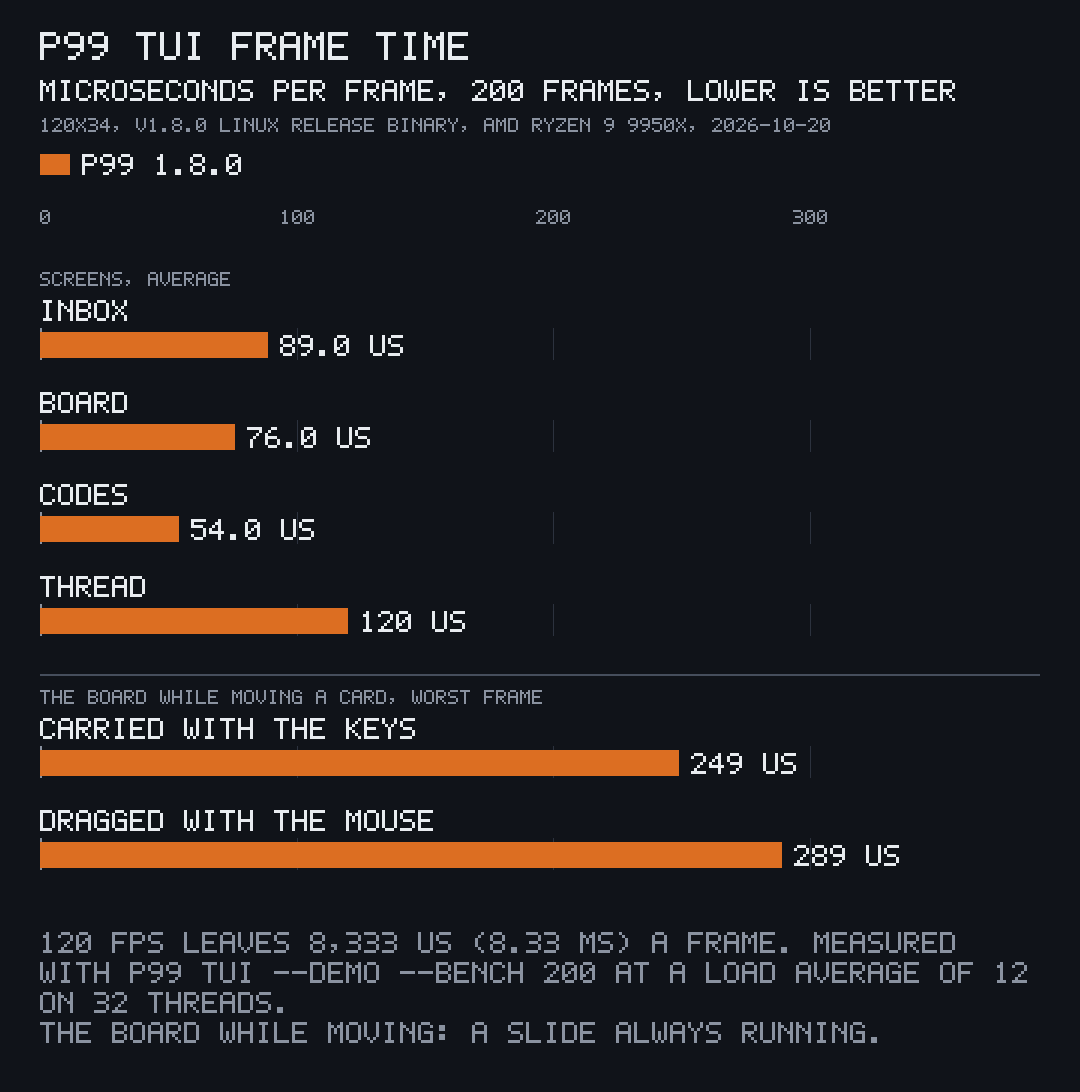
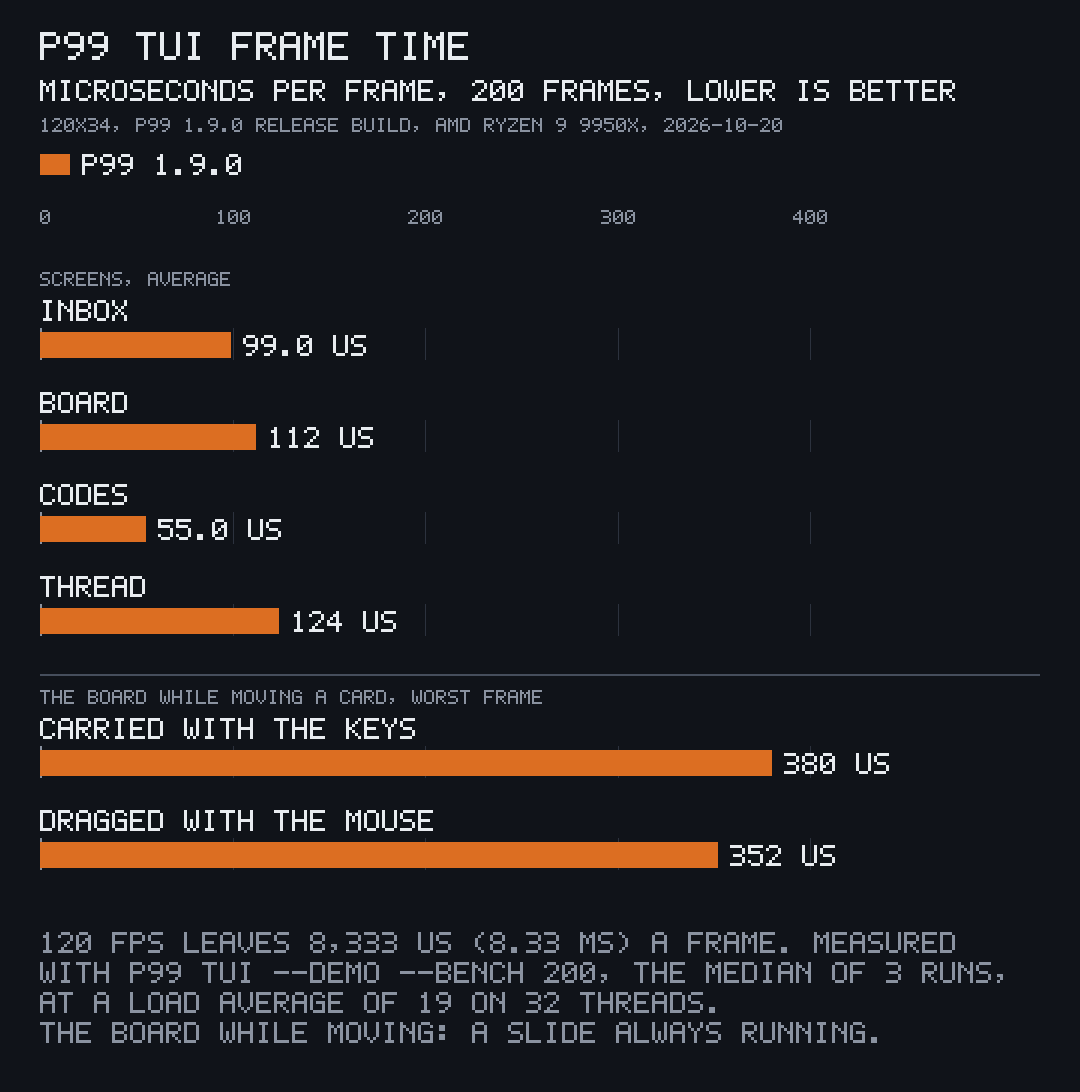
The README's numbers show 1.9.0 as measured on 2026-10-20 against the code before its polish: the panel's warm open, the P99 page's first paint on a mid-range phone, the web board's frames while dragging, the Worker per route beside 1.8.0, and the charts

diff --git a/README.md b/README.md
@@ -16,29 +16,33 @@ P99: got questions or doubts? [Ping me on Discord](https://discord.gg/XsNcn3kYzn
 
 | | |
 | --- | --- |
-| What every page downloads | **2,044 bytes** gzipped: the loader as served, nothing else |
-| Loader start to the "+" painted | **11.8 ms** cold, **4.5 ms** warm |
-| Page navigation to the "+" painted | **44.5 ms** cold, **16.9 ms** warm |
-| Click to the panel's form on screen | **55.8 ms** cold: panel and styles load only then (24.8 KB gzipped), and the capture code right after the form shows |
-| A manager's click on "Board" to the board with its cards | **193 ms** cold: the board's code loads only then (9.9 KB gzipped), with the board from the Worker |
-| Worker, p50 and p99 per request | **11.6 / 19.9 ms** the loader, **17.8 / 29.6 ms** an item with its thread, **19.5 / 33.0 ms** a board, **25.6 / 42.1 ms** a list of 50, **37.6 / 82.3 ms** a new item, **53.4 / 95.4 ms** a move, on a local `wrangler dev`, not Cloudflare's edge |
+| What every page downloads | **2,007 bytes** gzipped: the loader as served, nothing else |
+| Loader start to the "+" painted | **8.9 ms** cold, **3.4 ms** warm |
+| Page navigation to the "+" painted | **42.6 ms** cold, **13.8 ms** warm |
+| Click to the panel's form on screen | **59.0 ms** cold: panel and styles load only then (29.1 KB gzipped), and the capture code right after the form shows; **25.5 ms** warm |
+| A manager's click on "Board" to the board with its cards | **294 ms** cold, 270 cards on it: the board's code loads only then (11.0 KB gzipped), with the board from the Worker |
+| The web board while a card is dragged | **1.6 ms** a frame at the median, **4.8 ms** at p95, **9.1 ms** at p99 (input, scripts, style and layout): 120 fps leaves 8.33 ms |
+| The P99 page's first paint on a mid-range phone | **226 ms** cold signed out, **216 ms** signed in (150 ms round trips, 1.6 Mbps, a 4x slower CPU); 406 and 392 ms before its critical style was inlined |
+| Worker, p50 and p99 per request | **18.5 / 38.2 ms** the loader, **29.3 / 49.9 ms** an item with its thread, **28.7 / 51.7 ms** a board, **39.7 / 72.3 ms** a list of 50, **60.0 / 92.5 ms** a new item, **60.9 / 104 ms** a move, on a local `wrangler dev`, not Cloudflare's edge |
 | CLI start-up | **0.7 ms** `p99 --version`, **0.9 ms** `p99 --demo list` |
-| TUI start to its first frame at 120×34 | **1.6 ms** |
-| TUI frame time at 120×34 | **0.05 to 0.12 ms** average; the board's worst frame while a card is dragged and slides **0.29 ms**: 120 fps leaves 8.33 ms |
+| TUI start to its first frame at 120×34 | **1.7 ms** |
+| TUI frame time at 120×34 | **0.06 to 0.12 ms** average; the board's worst frame while a card is dragged and slides **0.35 ms**: 120 fps leaves 8.33 ms |
 | Backend | **0** servers: one Cloudflare Worker, D1 and R2 per account |
 | Worker runtime dependencies | **0** (wrangler only to run its tests) |
-| p99 binary | **6.9 MB** (3.1 MB as the Linux release download), 14 direct crates, the Worker and widget embedded |
+| p99 binary | **7.1 MB** (3.2 MB gzipped), 14 direct crates, the Worker and widget embedded |
 
-Measured on 2026-10-20 for 1.8.0 on an AMD Ryzen 9 9950X (32 threads), with the load average of the machine's other work noted for each:
+Measured on 2026-10-20 for 1.9.0 on an AMD Ryzen 9 9950X (32 threads), each against the code before 1.9.0's polish, alternated run by run, with the load average of the machine's other work noted for each:
 
 - Sizes with `gzip -9`: the loader as a host with no placement settings gets it (`bin/budget`), the panel, styles, capture and board code as the Worker serves them.
-- Browser times in headless Chromium 154 on localhost against a local Worker, each the median of 5 runs of 10 page loads, at a load average of 26 to 30, where "painted" is the first animation frame with the button (so times snap to 16.7 ms frames). Cold is a fresh browser context, warm a reload in it. Alternated run by run with 1.7.0 at a load average of 50 to 92, the two were the same within the noise (loader start to the button 9.3 and 9.0 ms cold, click to the form 132 and 144 ms). The board time is from the pointer going down on "Board" to the board on screen with its cards, in a fresh context each time, against the Worker on a local `wrangler dev` with 3 boards and 22 items, the median of 5 runs of 10 at a load average of 11 to 13.
-- Worker times on `wrangler dev` (workerd and local D1 on this machine, not Cloudflare's edge), one request at a time over a kept-alive connection, 400 of each after 30 to warm up, signed as the CLI signs them, on 360 items with 120 comments on 2 hosts and 5 boards, at a load average of 12 to 17.
-- CLI and TUI start-up: the whole process, the median of 300 runs after 20 to warm up (`p99 tui --demo --dump 120x34` for the first frame); TUI frame times with `p99 tui --demo --bench 200`; both on the v1.8.0 Linux release binary, at a load average of 12. A first set at a load average of 49 to 52 ran slower (up to 1.2 ms a frame on average, the worst 10.5 ms), from the machine's other work.
+- Browser times in headless Chromium 154 on localhost against a local Worker on `wrangler dev` with 360 items on 2 hosts, each the median of 5 runs of 10 page loads at a load average of 19 to 30, where "painted" is the first animation frame with the button (so times snap to 16.7 ms frames). Cold is a fresh browser context, warm a reload in it. Before the polish the same runs gave 7.5 and 3.0 ms from loader start to the button, 52.3 and 26.0 ms from click to the form, and 309 ms to the board: the same within the noise. The board time is from the pointer going down on "Board" to the board on screen with its cards.
+- The web board's frames: a mouse drag across the four columns and back, 90 moves 16 ms apart, 8 drags of about 190 frames, at a load average of 16 to 24; each frame from its first input event to the end of style and layout, which leaves out the paint and compositing of headless Chromium's software renderer. Before the polish: 1.5, 5.0 and 10.4 ms. About 1.5% of frames on both pass 8.33 ms on this machine, with 70 cards in a column.
+- The P99 page: a fresh browser context each time at 412×823, throttled through the DevTools protocol as Lighthouse's mobile profile is, 50 loads each, first paint as Chromium reports it.
+- Worker times on `wrangler dev` (workerd and local D1 on this machine, not Cloudflare's edge), one request at a time over a kept-alive connection, 400 of each after 30 to warm up, signed as the CLI signs them, on 360 items with 120 comments on 2 hosts, at a load average of 8 to 16. The code before the polish answered within 1.6 ms of these at p50 (within 0.2 ms on every route but a new item). 1.8.0 measured 11.6 / 19.9 ms for the loader up to 53.4 / 95.4 ms for a move; the same code before the polish measured 12.3 ms then 20.3 ms for the loader in single runs the same afternoon, so the gap is the machine's other work, not the code.
+- CLI and TUI start-up: the whole process, the median of 300 runs after 20 to warm up (`p99 tui --demo --dump 120x34` for the first frame); TUI frame times with `p99 tui --demo --bench 200`, the median of 3 runs; both on a release build, at a load average of 19.
 
-<p align="center"><img src="docs/images/web-sizes-bars.png" width="49%" alt="Bar chart of what a page downloads, in KB gzipped: the loader 2.0 on every page; on demand, the panel 18.9 and its styles 5.9 on the first click, then the capture code with its library 17.4; for managers, the board 9.9 when they open it."> <img src="docs/images/web-times-bars.png" width="49%" alt="Bar chart of how fast the widget shows, median of 5 runs of 10 in milliseconds: loader start to the button painted 11.8 cold and 4.5 warm, page navigation to the button painted 44.5 cold and 16.9 warm, click to the panel's form 55.8 cold, a manager's click on Board to the board with its cards 193 cold."></p>
+<p align="center"><img src="docs/images/web-sizes-bars.png" width="49%" alt="Bar chart of what a page downloads, in KB gzipped: the loader 2.0 on every page; on demand, the panel 22.3 and its styles 6.7 on the first click, then the capture code with its library 17.5; for managers, the board 11.0 when they open it."> <img src="docs/images/web-times-bars.png" width="49%" alt="Bar chart of how fast the widget shows, median of 5 runs of 10 in milliseconds: loader start to the button painted 8.9 cold and 3.4 warm, page navigation to the button painted 42.6 cold and 13.8 warm, click to the panel's form 59.0 cold and 25.5 warm, a manager's click on Board to the board with 270 cards 294 cold, and the P99 page's first paint on a mid-range phone 226 signed out and 216 signed in."></p>
 
-<p align="center"><img src="docs/images/tui-frames-bars.png" width="49%" alt="Bar chart of the TUI's frame time at 120 by 34 in microseconds: the average of 200 frames is 89 on the inbox, 76 on the board, 54 on the codes and 120 on a thread; the worst of 200 frames on the board is 249 while a card is carried with the keys and 289 while one is dragged with the mouse, a slide always running; 120 fps leaves 8,333."></p>
+<p align="center"><img src="docs/images/tui-frames-bars.png" width="49%" alt="Bar chart of the TUI's frame time at 120 by 34 in microseconds: the average of 200 frames is 99 on the inbox, 112 on the board, 55 on the codes and 124 on a thread; the worst of 200 frames on the board is 380 while a card is carried with the keys and 352 while one is dragged with the mouse, a slide always running; 120 fps leaves 8,333."></p>
 
 ## On your site
 
